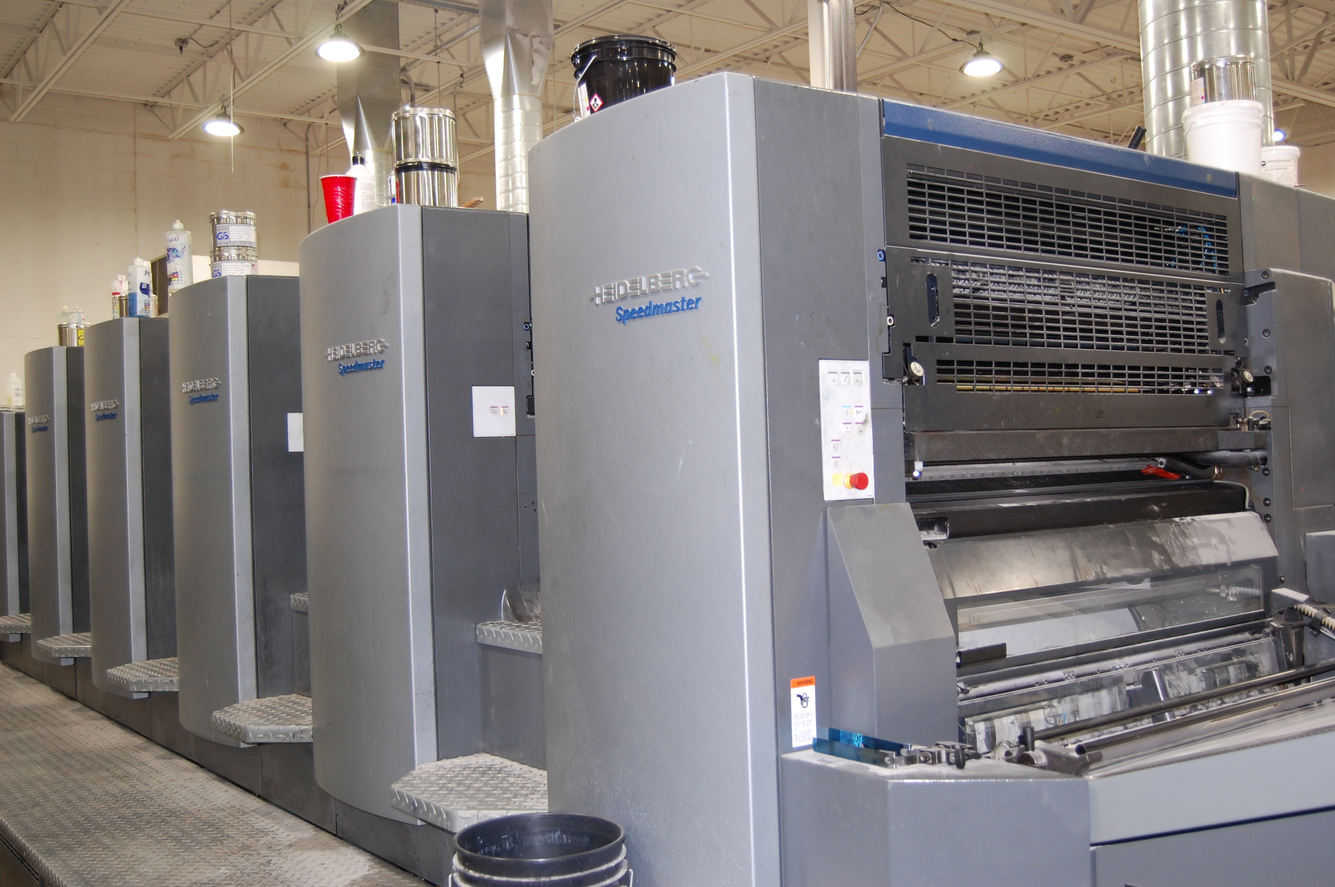
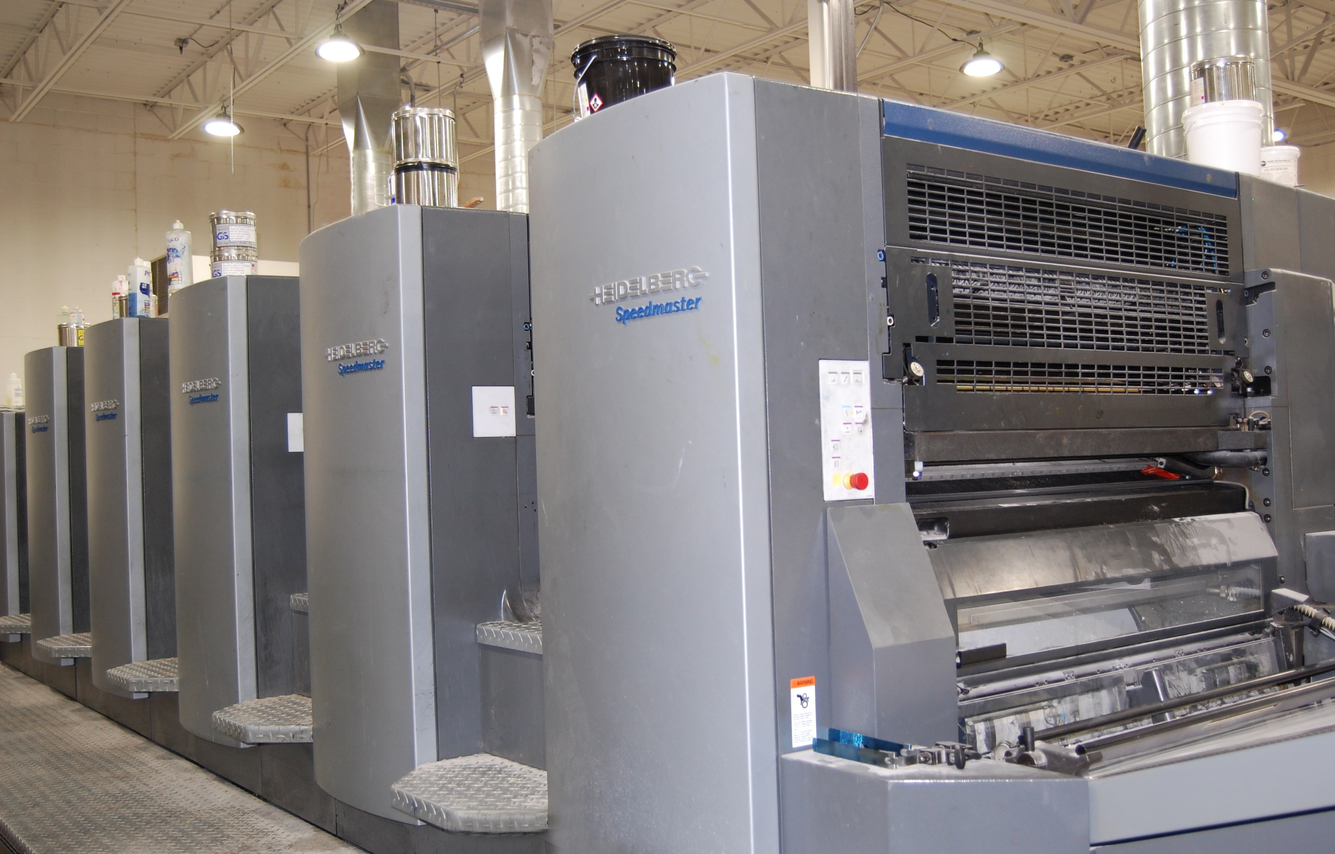
Added product images

diff --git a/index.html b/index.html
@@ -267,10 +267,10 @@
                 <div class="imgholder noSelect" id="iconsample1">
                     <div class="fadedbox">
                         <div class="group margin"></div>
-                        <div class="title text"> Sample 1 </div>
-                        <p>Lorem ipsum dolor sit, amet consectetur adipisicing elit. Saepe deserunt sequi error omnis
-                            porro quo earum est nihil, fuga tenetur inventore eligendi consequuntur, velit cumque
-                            expedita. Dolor culpa ipsum possimus!</p>
+                        <div class="title text"> Brochures </div>
+                        <p>Get your message out to potential customers quickly and concisely with a well designed brochure. 
+                            Small enough to slip in a pocket or an envelope, brochures conveniently provide an extra punch to
+                             your marketing message in an inexpensive package. Put brochures to work for you in your next marketing campaign!</p>
                     </div>
                 </div>
             </div>
@@ -278,7 +278,7 @@
                 <div class="imgholder noSelect" id="iconsample2">
                     <div class="fadedbox">
                         <div class="group margin"></div>
-                        <div class="title text"> Sample 2 </div>
+                        <div class="title text"> Catalogs </div>
                         <p>Lorem, ipsum dolor sit amet consectetur adipisicing elit. Vitae totam labore est, eos velit
                             blanditiis enim fugit necessitatibus repellat, recusandae nesciunt vel asperiores molestias
                             voluptatum. Quis minus dolore</p>
@@ -289,10 +289,11 @@
                 <div class="imgholder noSelect" id="iconsample3">
                     <div class="fadedbox">
                         <div class="group margin"></div>
-                        <div class="title text"> Sample 3 </div>
-                        <p>Lorem, ipsum dolor sit amet consectetur adipisicing elit. Vitae totam labore est, eos velit
-                            blanditiis enim fugit necessitatibus repellat, recusandae nesciunt vel asperiores molestias
-                            voluptatum. Quis minus dolore</p>
+                        <div class="title text"> Pocket Folders </div>
+                        <p>Look professional and prepared with presentation folders that complement your promotional materials. 
+                            Whether you use them for conference handouts, product literature, business proposals, or press kits, 
+                            presentation folders are an excellent way to bolster your brand while keeping important information 
+                            tight and tidy for your team members or clients.</p>
                     </div>
                 </div>
             </div>
@@ -301,10 +302,10 @@
                 <div class="imgholder noSelect" id="iconsample4">
                     <div class="fadedbox">
                         <div class="group margin"></div>
-                        <div class="title text"> Sample 4 </div>
-                        <p>Lorem, ipsum dolor sit amet consectetur adipisicing elit. Vitae totam labore est, eos velit
-                            blanditiis enim fugit necessitatibus repellat, recusandae nesciunt vel asperiores molestias
-                            voluptatum. Quis minus dolore</p>
+                        <div class="title text"> Envelopes </div>
+                        <p>Be sure your mailings arrive in style with printed envelopes that beg to be opened. Whether a simple, 
+                            one-color remittance envelope or a full-color piece featuring bright, colorful imagery and text, we 
+                            can design and print envelopes to suit any need.</p>
                     </div>
                 </div>
             </div>
@@ -312,10 +313,11 @@
                 <div class="imgholder noSelect" id="iconsample5">
                     <div class="fadedbox">
                         <div class="group margin"></div>
-                        <div class="title text"> Sample 5 </div>
-                        <p>Lorem, ipsum dolor sit amet consectetur adipisicing elit. Vitae totam labore est, eos velit
-                            blanditiis enim fugit necessitatibus repellat, recusandae nesciunt vel asperiores molestias
-                            voluptatum. Quis minus dolore</p>
+                        <div class="title text"> Business Forms </div>
+                        <p>Tame disorder, increase your productivity, and streamline your workflow with business forms. From invoices
+                             to order forms, packing slips to receipts, inventory checklists to service contracts, a well-designed 
+                             business form will save you time, money, and headaches by providing an instant duplicate you can provide
+                              to customers and co-workers alike.</p>
                     </div>
                 </div>
             </div>
@@ -323,10 +325,10 @@
                 <div class="imgholder noSelect" id="iconsample6">
                     <div class="fadedbox">
                         <div class="group margin"></div>
-                        <div class="title text"> Sample 6 </div>
-                        <p>Lorem, ipsum dolor sit amet consectetur adipisicing elit. Vitae totam labore est, eos velit
-                            blanditiis enim fugit necessitatibus repellat, recusandae nesciunt vel asperiores molestias
-                            voluptatum. Quis minus dolore</p>
+                        <div class="title text"> Letterhead </div>
+                        <p>A well-designed letterhead shows customers they're dealing with an organization with an attention 
+                            to detail. A poorly designed or outdated letterhead can have the opposite effect. Use your letterhead
+                             to create an image your customers can feel comfortable trusting.</p>
                     </div>
                 </div>
             </div>
@@ -335,10 +337,10 @@
                 <div class="imgholder noSelect" id="iconsample7">
                     <div class="fadedbox">
                         <div class="group margin"></div>
-                        <div class="title text"> Sample 7 </div>
-                        <p>Lorem, ipsum dolor sit amet consectetur adipisicing elit. Vitae totam labore est, eos velit
-                            blanditiis enim fugit necessitatibus repellat, recusandae nesciunt vel asperiores molestias
-                            voluptatum. Quis minus dolore</p>
+                        <div class="title text"> Booklets </div>
+                        <p>Deliver useful, targeted information to your customers in a highly professional package with a well-designed, 
+                            professionally printed booklet. Booklets are ideal for a variety of projects...from price books to product brochures, 
+                            cookbooks to software manuals, maintenance schedules to frequently asked questions.</p>
                     </div>
                 </div>
             </div>
@@ -346,7 +348,7 @@
                 <div class="imgholder noSelect" id="iconsample8">
                     <div class="fadedbox">
                         <div class="group margin"></div>
-                        <div class="title text"> Sample 8 </div>
+                        <div class="title text"> Direct Mailers </div>
                         <p>Lorem, ipsum dolor sit amet consectetur adipisicing elit. Vitae totam labore est, eos velit
                             blanditiis enim fugit necessitatibus repellat, recusandae nesciunt vel asperiores molestias
                             voluptatum. Quis minus dolore</p>
@@ -357,10 +359,11 @@
                 <div class="imgholder noSelect" id="iconsample9">
                     <div class="fadedbox">
                         <div class="group margin"></div>
-                        <div class="title text"> Sample 9 </div>
-                        <p>Lorem, ipsum dolor sit amet consectetur adipisicing elit. Vitae totam labore est, eos velit
-                            blanditiis enim fugit necessitatibus repellat, recusandae nesciunt vel asperiores molestias
-                            voluptatum. Quis minus dolore</p>
+                        <div class="title text"> Business Cards </div>
+                        <p>Small enough to fit in a pocket, yet versatile enough to use anywhere, your business card is the 
+                            most important piece in your marketing arsenal. More than just names and numbers, effectively 
+                            designed business cards provide a bold first impression with your prospective customers, and 
+                            put your contact information right at their fingertips when they are ready to buy.</p>
                     </div>
                 </div>
             </div>
@@ -369,7 +372,7 @@
                 <div class="imgholderadd noSelect" id="iconsample10">
                     <div class="fadedbox">
                         <div class="group margin"></div>
-                        <div class="title text"> Sample 10 </div>
+                        <div class="title text"> Packaging </div>
                         <p>Lorem, ipsum dolor sit amet consectetur adipisicing elit. Vitae totam labore est, eos velit
                             blanditiis enim fugit necessitatibus repellat, recusandae nesciunt vel asperiores molestias
                             voluptatum. Quis minus dolore</p>
@@ -380,10 +383,10 @@
                 <div class="imgholderadd noSelect" id="iconsample11">
                     <div class="fadedbox">
                         <div class="group margin"></div>
-                        <div class="title text"> Sample 11 </div>
-                        <p>Lorem, ipsum dolor sit amet consectetur adipisicing elit. Vitae totam labore est, eos velit
-                            blanditiis enim fugit necessitatibus repellat, recusandae nesciunt vel asperiores molestias
-                            voluptatum. Quis minus dolore</p>
+                        <div class="title text"> Flyers </div>
+                        <p>Get your messages out to the masses. Flyers are a cost-effective way to cover a large area without 
+                            breaking the bank. Hand them out at events or on street corners. Leave them in public places or 
+                            deliver them to doorsteps. Flyers are a powerful sales force that are, quite literally, easy to grasp.</p>
                     </div>
                 </div>
             </div>
@@ -391,7 +394,7 @@
                 <div class="imgholderadd noSelect" id="iconsample12">
                     <div class="fadedbox">
                         <div class="group margin"></div>
-                        <div class="title text"> Sample 12 </div>
+                        <div class="title text"> Maps </div>
                         <p>Lorem, ipsum dolor sit amet consectetur adipisicing elit. Vitae totam labore est, eos velit
                             blanditiis enim fugit necessitatibus repellat, recusandae nesciunt vel asperiores molestias
                             voluptatum. Quis minus dolore</p>
@@ -466,8 +469,8 @@
             <h1>Environment</h1>
             <h2>At Brookstone Printing we care about the environment. We've replaced our warehouse lighting with LED
                 units, saving
-                hundreds of kilowatts of electricity per year. We use all non-toxic, environmentally friendly soy based
-                inks and solvents.
+                hundreds of kilowatts of electricity per year. We use all non-toxic, environmentally friendly solvents and soy based
+                inks.
                 All of our paper scraps and aluminum printing plates are recycled totaling up to a few metric tons per
                 year.
                 You can have peace of mind that choosing Brookstone Printing for your high quality printing needs is to

diff --git a/styles.css b/styles.css
@@ -542,7 +542,7 @@ h2.speedmaster {
 #speedmasterimage{
     /* background-image: url("images/speedmaster.jpg"); */
     /* background-image: linear-gradient(rgba(0, 0, 0, 0.10), rgba(0, 0, 0, 0.10)), url("../images/bigpressedit5.jpg"); */
-    background-image: url("images/bigpressedit5.jpg");
+    background-image: url("images/bigpressedit6.jpg");
     background-size: cover;
     background-position: center;
     background-repeat: no-repeat;
@@ -1064,74 +1064,86 @@ h2 {
 /* ///////////////////////////////////////////// */
 
 #iconsample1{
-    background-image: url("../images/blankimage.png");
+    background-image: url("../images/brochure.jpg");
     background-position: center;
     background-repeat: no-repeat;
+    background-size: cover;
 }
 
 #iconsample2{
-    background-image: url("../images/blankimage.png");
+    background-image: url("../images/catalog.JPG");
     background-position: center;
     background-repeat: no-repeat;
+    background-size: cover;
 }
 
 #iconsample3{
-    background-image: url("../images/blankimage.png");
+    background-image: url("../images/pocketfolder.JPG");
     background-position: center;
     background-repeat: no-repeat;
+    background-size: cover;
 }
 
 #iconsample4{
-    background-image: url("../images/blankimage.png");
+    background-image: url("../images/envelopes2.JPG");
     background-position: center;
     background-repeat: no-repeat;
+    background-size: cover;
 }
 #iconsample5{
-    background-image: url("../images/blankimage.png");
+    background-image: url("../images/businessforms.JPG");
     background-position: center;
     background-repeat: no-repeat;
+    background-size: cover;
 }
 
 #iconsample6{
-    background-image: url("../images/blankimage.png");
+    background-image: url("../images/letterhead.JPG");
     background-position: center;
     background-repeat: no-repeat;
+    background-size: cover;
 }
 
 #iconsample7{
-    background-image: url("../images/blankimage.png");
+    background-image: url("../images/booklets.JPG");
     background-position: center;
     background-repeat: no-repeat;
+    background-size: cover;
 }
 
 #iconsample8{
-    background-image: url("../images/blankimage.png");
+    background-image: url("../images/directmailers.JPG");
     background-position: center;
     background-repeat: no-repeat;
+    background-size: cover;
 }
 
 #iconsample9{
-    background-image: url("../images/blankimage.png");
+    background-image: url("../images/businesscards.JPG");
     background-position: center;
     background-repeat: no-repeat;
+    background-size: cover;
 }
 
 #iconsample10{
-    background-image: url("../images/blankimage.png");
+    background-image: url("../images/packaging.JPG");
     background-position: center;
     background-repeat: no-repeat;
+    background-size: cover;
 }
 
 #iconsample11{
-    background-image: url("../images/blankimage.png");
+    background-image: url("../images/flyer.JPG");
     background-position: center;
     background-repeat: no-repeat;
+    background-size: cover;
 }
 
 #iconsample12{
-    background-image: url("../images/blankimage.png");
+    background-image: url("../images/map.jpg");
     background-position: center;
     background-repeat: no-repeat;
+    background-size: cover;
 }
 
 /* ///////////////////////////////////////////// */
@@ -1869,6 +1881,29 @@ form{
         font-size: 1em;;
     }
 
+    /* product section */
+    .col .imgholder, .col .imgholderadd.show{
+        height: 200px;
+    }
+
+    .col .imgholder .title{
+        font-size: 1.25em;
+        margin-top: 0px;
+    }
+
+    .col .imgholder .fadedbox p{
+        font-size: 0.75em;
+    }
+
+    .col .imgholderadd .title{
+        font-size: 1.25em;
+        margin-top: 0px;
+    }
+
+    .col .imgholderadd .fadedbox p{
+        font-size: 0.75em;
+    }
+
     /* Eco Section */
     .col.three.offwhite{
         width: 30%;
@@ -1914,6 +1949,10 @@ form{
         padding: 0;
         margin: 0 auto;
         /* float: none; */
+    }
+
+    .col.three{
+        margin: 4% auto;
     }
 
     .col.four, .col.three, .col.two{
@@ -1986,6 +2025,27 @@ form{
 
     h2.speedmaster{
         font-size: 1.5em;
+    }
+
+    /* product section */
+    .col .imgholder, .col .imgholderadd.show{
+        height: 275px;
+    }
+
+    .col .imgholder .title{
+        font-size: 2em;
+    }
+
+    .col .imgholder .fadedbox p{
+        font-size: 1em;
+    }
+
+    .col .imgholderadd .title{
+        font-size: 2em;
+    }
+
+    .col .imgholderadd .fadedbox p{
+        font-size: 1em;
     }
 
     .section.environment{

diff --git a/aboutus.html b/aboutus.html
@@ -85,7 +85,7 @@
             <div class="col two">
                 <div class="servicetext right">
                     <h1>Our History</h1>
-                    <h2>125 Years of Tradition</h2>
+                    <h2>Two Decades of Tradition</h2>
                     <p>Brookstone Printing was established in 2006, when life long friends Todd Moser and Brian Mayr decided to start their 
                         own printing company. Todd grew up working in his family printing company and Brian put himself through college working 
                         in the printing industry. With their knowledge and experience they have had great success   in the industry, continuing to 
@@ -153,7 +153,7 @@
             <div class="col two">
                 <div class="servicetext left">
                     <h1>Our History</h1>
-                    <h2>125 Years of Tradition</h2>
+                    <h2>Two Decades of Tradition<</h2>
                     <p>Brookstone Printing was established in 2006, when best friends Todd Moser and Brian Mayr decided to start their 
                         own printing company. Todd grew up in his family print shop and Brian put himself through college working at multiple printing facilities. </p>
                 </div>
